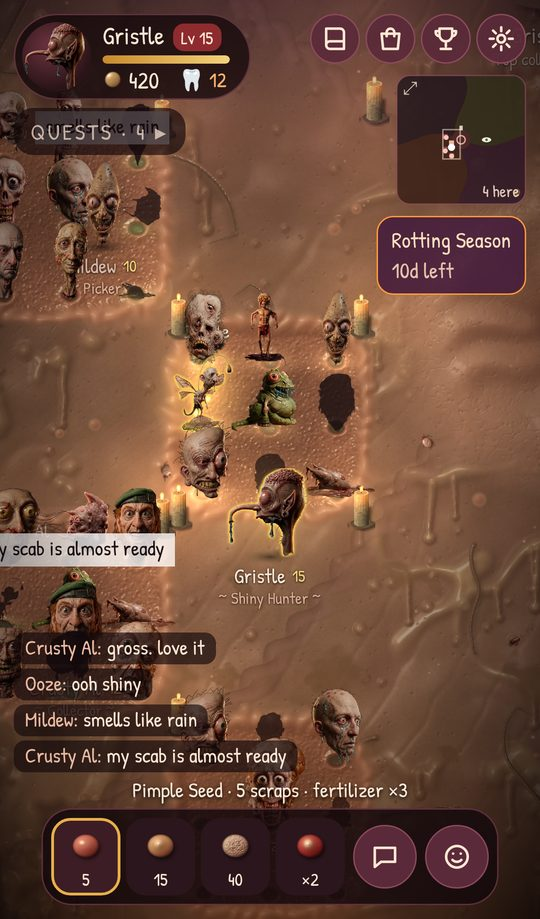
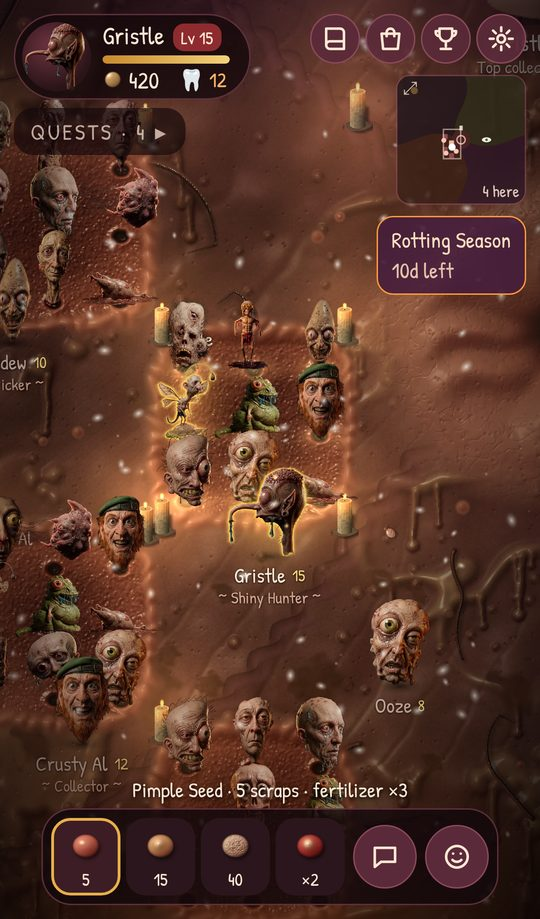
README: a clean plot shot, the title screen, a sharper pitch
- The plot screenshot is retaken at dawn, quiet: the plots, the candles
  and the characters, without chat lines or speech bubbles over them.
- The title screen joins the grid; the map moves to docs/RULES.md beside
  a new shot of the statue, under Regions and landmarks.
- A plainer pitch ("A multiplayer farming game where the field is skin and
  the crops are monsters"), tighter opening paragraphs and captions.
- RULES.md: three sections that opened on a bare file path now open on a
  sentence.

Claude-Session: https://claude.ai/code/session_017kHxjLayX1yK4Q7sMVSaM4

diff --git a/README.md b/README.md
@@ -1,42 +1,42 @@
 # Hairy Popsicles: The MMO
 
-**Grow gross little characters out of the skin of the world, together.**
+**A multiplayer farming game where the field is skin and the crops are monsters.**
 
-A spin-off of [Hairy Popsicles](https://github.com/dannyleb/hairy-popsicles-the-game):
-the same flesh-toned, gross universe, now one shared world that everyone plays
-in at once. Free, in your phone's browser. No install, no sign-up.
+A spin-off of [Hairy Popsicles](https://github.com/dannyleb/hairy-popsicles-the-game),
+in the same flesh-toned, gross universe: one shared world, everyone in it at
+once. Free in your phone's browser. No install, no sign-up.
 
 ### [▶ Play now](https://dannyleb.github.io/hairy-popsicles-the-mmo/)
 
 <table>
   <tr>
-    <td align="center"><img src="docs/screenshots/world.jpg" width="250" alt="Players tending their plots, ripe characters standing in the holes"><br><sub>Your plot and your neighbors'</sub></td>
-    <td align="center"><img src="docs/screenshots/boil.jpg" width="250" alt="Players crowding round The Boil to pop it"><br><sub>Everyone pops The Boil</sub></td>
-    <td align="center"><img src="docs/screenshots/reveal.jpg" width="250" alt="A new character revealed"><br><sub>Something new came up</sub></td>
+    <td align="center"><img src="docs/screenshots/title.jpg" width="250" alt="The title screen: the logo over the world, and Continue"><br><sub>Open the link, tap Continue</sub></td>
+    <td align="center"><img src="docs/screenshots/world.jpg" width="250" alt="Your plot at dawn, ripe characters standing in its holes, neighbors' plots around it"><br><sub>Grow them in your plot</sub></td>
+    <td align="center"><img src="docs/screenshots/boil.jpg" width="250" alt="Players crowding round The Boil to pop it"><br><sub>Pop The Boil together</sub></td>
   </tr>
   <tr>
+    <td align="center"><img src="docs/screenshots/reveal.jpg" width="250" alt="A new Rare character revealed"><br><sub>Every new one gets a reveal</sub></td>
     <td align="center"><img src="docs/screenshots/album.jpg" width="250" alt="The album: every character grown, silhouettes for the rest"><br><sub>Collect all 25</sub></td>
-    <td align="center"><img src="docs/screenshots/night.jpg" width="250" alt="The giant Eye at night, watching the nearest player"><br><sub>Night falls; the Eye watches</sub></td>
-    <td align="center"><img src="docs/screenshots/map.jpg" width="250" alt="The big map: four regions around the Navel, landmarks and everyone here"><br><sub>Four regions round the Navel</sub></td>
+    <td align="center"><img src="docs/screenshots/night.jpg" width="250" alt="The giant Eye at night, watching the nearest player"><br><sub>Night falls. The Eye watches.</sub></td>
   </tr>
 </table>
 
 ## What it is
 
-The world is skin: a dark, wet, candlelit expanse of it, seen from above.
-Everyone gets a plot, a raw sore with nine follicle holes. Plant a seed in a
-hole and a character slowly rises out of it, a dark silhouette until it ripens
-into one of 25 photoreal 3D creatures. Pull it out, keep it in your album, and
-play as any one you've grown.
+The world is skin: a dark, wet, candlelit expanse of it, seen from above. Your
+plot is a raw sore with nine follicle holes. Plant a seed and a character rises
+out of a hole, a dark silhouette at first, until it ripens into one of 25
+photoreal 3D creatures. Pull it out, keep it in your album, and play as any one
+you've grown.
 
-You're never alone in it. Everyone tends their patch in the same persistent
-world, sees everyone else's, and gets more done together: squeeze a
-neighbor's crop to ripen it sooner, crowd round a world event, chat, gift a
-spare character to someone who hasn't found it.
+Everyone farms the same persistent world at the same time. You see every plot,
+and you get more done together: squeeze a neighbor's crop to ripen it sooner,
+crowd round a world event, chat, or gift a spare character to someone who
+hasn't found it.
 
 ## How to play
 
-1. **Claim a plot.** New players get one on the spot, with a starter character.
+1. **Claim a plot.** New players get one on the spot, plus a starter character.
 2. **Plant.** Pick a seed and tap an open hole. Better seeds unlock as you level.
 3. **Wait, or help it along.** Squeeze a neighbor's growing crop (it glows
    green) to ripen it 25% sooner and earn a few scraps; they can do the same for you.

diff --git a/docs/RULES.md b/docs/RULES.md
@@ -273,7 +273,12 @@ are off on the lite quality setting.
 
 ## Regions and landmarks
 
-(`packages/shared/src/regions.js`): the Navel is
+<p align="center">
+  <img src="screenshots/map.jpg" width="250" alt="The big map: four regions around the Navel, landmarks and everyone here">
+  <img src="screenshots/statue.jpg" width="250" alt="The bone statue of the top collector, at night">
+</p>
+
+Defined in `packages/shared/src/regions.js`. The Navel is
 the middle of the world, and each quarter around it is its own place, with
 its own cast of color and props: the Scalp (a forest of long hairs), the
 Armpit (sweat pools, steaming), Freckle Flats and Wart Hills. Borders wander
@@ -291,8 +296,8 @@ the scene cheaper to draw than before all this was added.
 
 ## Day, night and weather
 
-(`packages/shared/src/sky.js`), from the clock
-alone, so every screen agrees with no server traffic. A day lasts 20 minutes:
+Worked out from the clock alone (`packages/shared/src/sky.js`), so every
+screen agrees with no server traffic. A day lasts 20 minutes:
 about 7 of daylight (a warm lift over the ground), 7 of night (a cool shade,
 with candles and pus-flies glowing brighter), and a dusk and a dawn between.
 A Blood Moon is always as dark as dusk. Every 6 minutes the weather may turn
@@ -304,8 +309,8 @@ streaks are left out.
 
 ## Ambience
 
-(`packages/client/src/audio/ambience.js`): quiet procedural
-sounds of wherever you are, under the music and off with Sound: the world's
+Quiet procedural sounds (`packages/client/src/audio/ambience.js`) of
+wherever you are, under the music and off with Sound: the world's
 heartbeat, louder the nearer you are to the Navel; gurgles in the Armpit;
 hairs rustling in the Scalp; little things chirping at night; gusts while the
 wind blows. Characters on screen mutter their lines from the first
